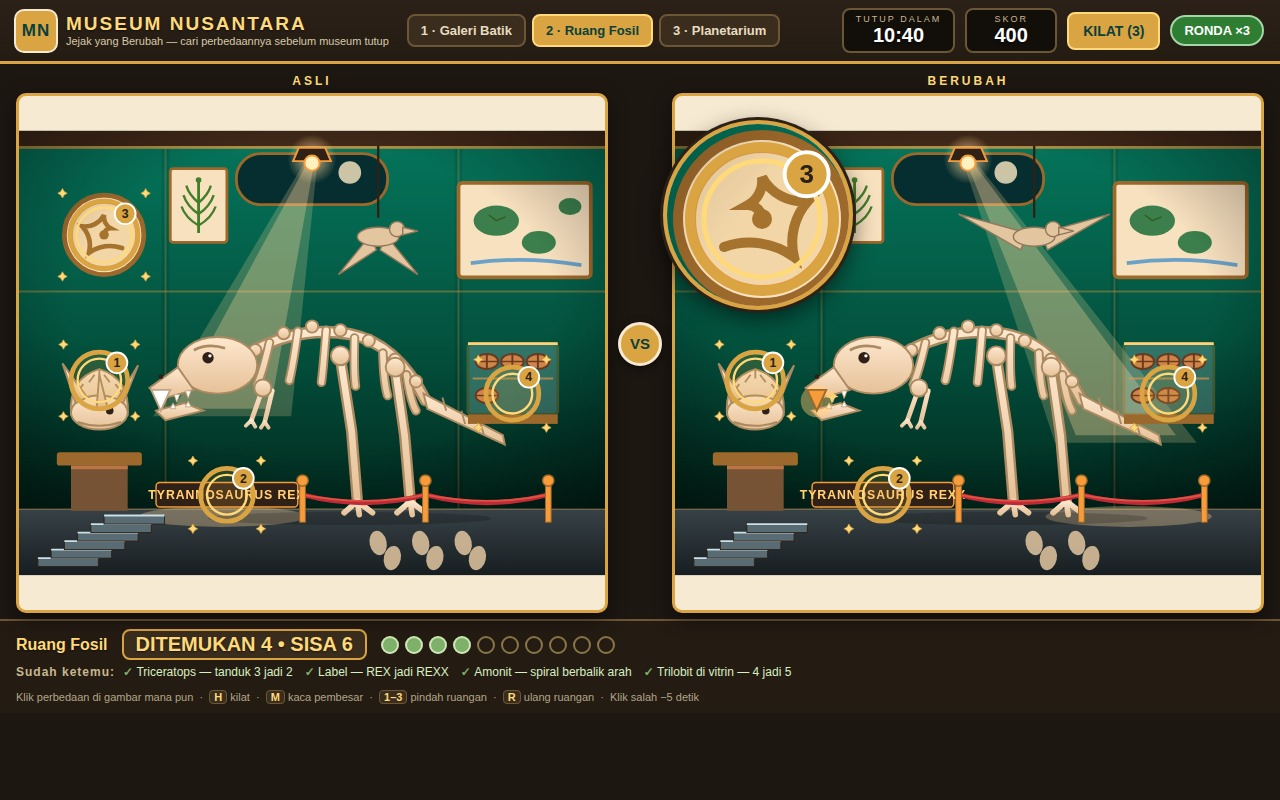
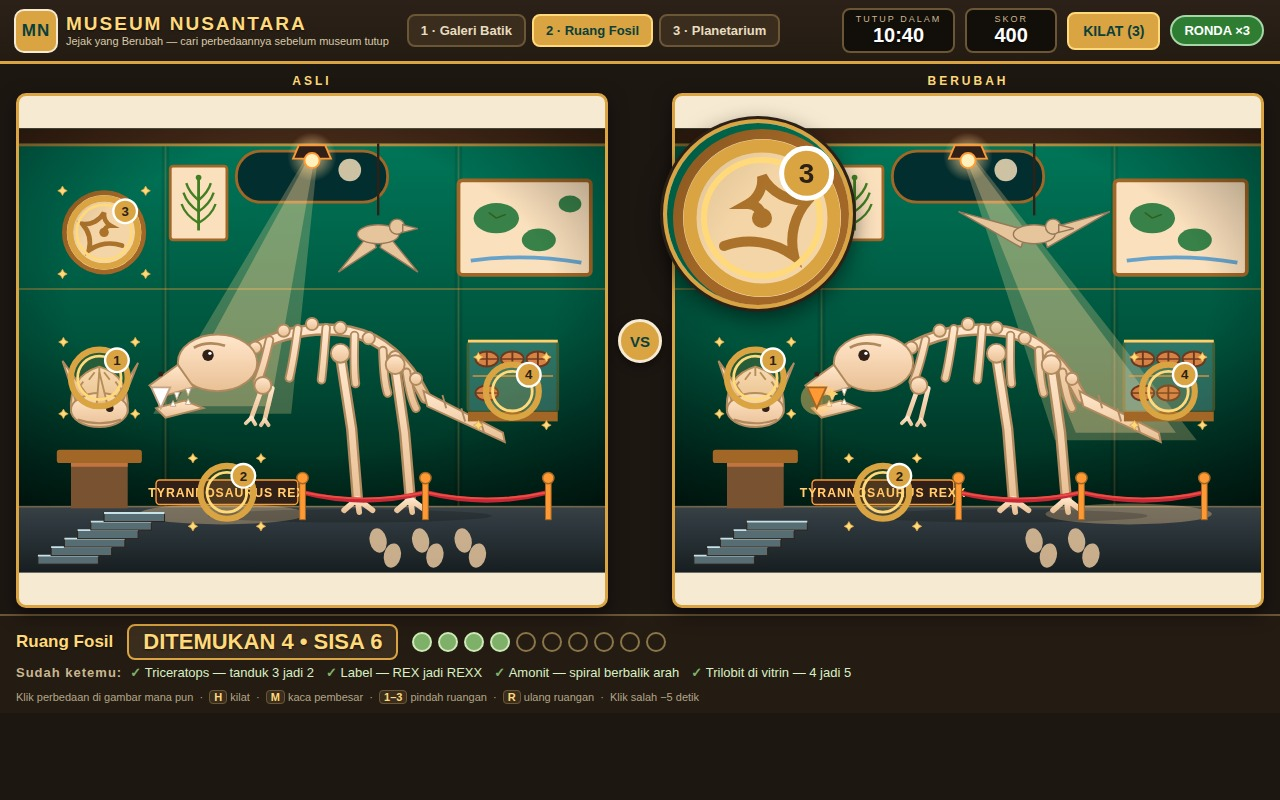
V1.4: Museum Nusantara — tuning estetika (grade Fokus Sorot)
- S1: grade pemenang uji buta 300px (C Fokus Sorot) — sorot radial hangat
  + vignette 0.60, dinding peach-emas, saturate 1.38 / kontras 1.22
- S2: Aula Fosil Teal didorong (sat 1.28, kontras 1.19, vig 0.55, sorot 0.24)
- S3: Planetarium didorong (sat 1.40, kontras 1.17, vig 0.50) + langit
  gelap di belakang kubah (sudut atas tidak lagi krem kosong)
- Global: cincin emas lebih tebal (5->6.5, badge r 11->12.5), counter
  + dots + daftar temuan lebih besar (terbaca di 300px)
- Screenshots di-shoot ulang state identik V1.3; S1/S2/S3 JPEG q92
  (PNG melebihi cap), S4 PNG 256.552 B
- Verifikasi: klik 30/30, pipeline main.ts 2x byte-identik,
  S1 byte-identik 2x shoot, 0 error game (hanya favicon 404)

diff --git a/game/scenes.js b/game/scenes.js
@@ -95,6 +95,14 @@
     return s;
   }
 
+  // ---------- V1.4: grade pemenang uji buta 300px ----------
+  // Tiga varian diuji buta (A Hangat Dalam, B Golden Hour, C Fokus Sorot):
+  // C menang — sorot radial hangat + vignette kuat, dinding peach-emas,
+  // cincin paling terbaca di 300px. Nilai C di-hardcode di bawah; hanya
+  // warna dinding/lantai/vignette — diff, posisi, dan logika tidak disentuh.
+  var GRADE1 = { name: 'Fokus Sorot', con: 1.22, hue: 8, sat: 1.38, vig: 0.60,
+    wall: ['#ffe9b0', '#eeb45c', '#c98a3e'], floor: ['#a87c40', '#5d3a1c'], glow: 0.28 };
+
   // ================= SCENE 1 — GALERI BATIK =================
   var scene1 = {
     id: 'batik',
@@ -113,21 +121,24 @@
     ],
     draw: function (variant) {
       var B = variant === 'berubah';
+      var G = GRADE1;
       var s = '';
       // defs: gradasi dinding + lantai + glow lampu
       s += '<defs>' +
         '<linearGradient id="wall1" x1="0" y1="0" x2="0" y2="1">' +
-        '<stop offset="0" stop-color="#fcefc0"/><stop offset="1" stop-color="#e8bd72"/></linearGradient>' +
+        '<stop offset="0" stop-color="' + G.wall[0] + '"/><stop offset="0.55" stop-color="' + G.wall[1] + '"/><stop offset="1" stop-color="' + G.wall[2] + '"/></linearGradient>' +
         '<linearGradient id="floor1" x1="0" y1="0" x2="0" y2="1">' +
-        '<stop offset="0" stop-color="#b08248"/><stop offset="1" stop-color="#754d22"/></linearGradient>' +
+        '<stop offset="0" stop-color="' + G.floor[0] + '"/><stop offset="1" stop-color="' + G.floor[1] + '"/></linearGradient>' +
         '<radialGradient id="lampGlow" cx="0.5" cy="0.5" r="0.5">' +
         '<stop offset="0" stop-color="#ffe9a8" stop-opacity="0.9"/><stop offset="1" stop-color="#ffe9a8" stop-opacity="0"/></radialGradient>' +
         '<radialGradient id="vig1" cx="0.5" cy="0.45" r="0.75">' +
-        '<stop offset="0.6" stop-color="#000" stop-opacity="0"/><stop offset="1" stop-color="#000" stop-opacity="0.45"/></radialGradient>' +
+        '<stop offset="0.6" stop-color="#000" stop-opacity="0"/><stop offset="1" stop-color="#000" stop-opacity="' + G.vig + '"/></radialGradient>' +
+        (G.glow ? '<radialGradient id="glow1" cx="0.5" cy="0.42" r="0.55">' +
+        '<stop offset="0" stop-color="#fff3c4" stop-opacity="' + G.glow + '"/><stop offset="1" stop-color="#fff3c4" stop-opacity="0"/></radialGradient>' : '') +
         '<filter id="grade1" x="-5%" y="-5%" width="110%" height="110%" color-interpolation-filters="sRGB">' +
-        '<feColorMatrix type="matrix" values="1.15 0 0 0 0 0 1.15 0 0 0 0 0 1.15 0 0 0 0 0 0 1 0"/>' +
-        '<feColorMatrix type="hueRotate" values="8"/>' +
-        '<feColorMatrix type="saturate" values="1.32"/>' +
+        '<feColorMatrix type="matrix" values="' + (G.sepia ? '0.848 0.192 0.047 0 0 0.087 0.922 0.042 0 0 0.068 0.134 0.783 0 0 0 0 0 1 0' : G.con + ' 0 0 0 0 0 ' + G.con + ' 0 0 0 0 0 ' + G.con + ' 0 0 0 0 0 1 0') + '"/>' +
+        '<feColorMatrix type="hueRotate" values="' + G.hue + '"/>' +
+        '<feColorMatrix type="saturate" values="' + G.sat + '"/>' +
         '</filter>' +
         '</defs>';
       // Grading resep "Museum Hangat" (skill color-grading-effects):
@@ -137,9 +148,12 @@
       // hueRotate 5.4->8, vignette 0.35->0.45, dinding/lantai lebih dalam)
       // karena integrasi glfx.js asli tidak jelas lebih baik (dinding
       // memutih, motif tidak lebih terbaca) — direvert ke literal.
+      // V1.4: grade pemenang uji buta 300px — C Fokus Sorot (glow 0.28 + vig 0.60).
       s += '<g filter="url(#grade1)">';
       // ---- BACKGROUND: dinding + jendela lengkung + langit-langit ----
       s += '<rect x="0" y="0" width="620" height="400" fill="url(#wall1)"/>';
+      // sorot radial hangat (varian C) — hanya dinding, objek tetap terang.
+      if (G.glow) s += '<rect x="0" y="0" width="620" height="400" fill="url(#glow1)"/>';
       // vignette resep Museum Hangat (0.6/0.35) — hanya dinding, objek tetap terang.
       s += '<rect x="0" y="0" width="620" height="400" fill="url(#vig1)"/>';
       s += '<rect x="0" y="0" width="620" height="14" fill="#8a6d2f"/>';
@@ -263,16 +277,18 @@
         '<radialGradient id="spot2" cx="0.5" cy="0.5" r="0.5">' +
         '<stop offset="0" stop-color="#ffe9a8" stop-opacity="0.75"/><stop offset="1" stop-color="#ffe9a8" stop-opacity="0"/></radialGradient>' +
         '<radialGradient id="vig2" cx="0.5" cy="0.45" r="0.75">' +
-        '<stop offset="0.55" stop-color="#000" stop-opacity="0"/><stop offset="1" stop-color="#000" stop-opacity="0.5"/></radialGradient>' +
+        '<stop offset="0.55" stop-color="#000" stop-opacity="0"/><stop offset="1" stop-color="#000" stop-opacity="0.55"/></radialGradient>' +
         '<filter id="grade2" x="-5%" y="-5%" width="110%" height="110%" color-interpolation-filters="sRGB">' +
-        '<feColorMatrix type="matrix" values="1.14 0 0 0 -0.11 0 1.14 0 0 -0.11 0 0 1.14 0 0 -0.11 0 0 0 1 0"/>' +
-        '<feColorMatrix type="hueRotate" values="-10.8"/>' +
-        '<feColorMatrix type="saturate" values="1.18"/>' +
+        '<feColorMatrix type="matrix" values="1.19 0 0 0 -0.11 0 1.19 0 0 -0.11 0 0 1.19 0 0 -0.11 0 0 0 1 0"/>' +
+        '<feColorMatrix type="hueRotate" values="-12"/>' +
+        '<feColorMatrix type="saturate" values="1.28"/>' +
         '</filter>' +
         '</defs>';
       // Grading resep "Aula Fosil Teal" (skill color-grading-effects):
       // brightnessContrast(-0.04, 0.14) + hueSaturation(-0.06, 0.18),
       // diterapkan literal sebagai filter SVG (sRGB) pada seluruh scene.
+      // V1.4: didorong searah pemenang uji buta (sat 1.18->1.28, kontras
+      // 1.14->1.19, hue -10.8->-12, vig 0.5->0.55, sorot 0.20->0.24).
       s += '<g filter="url(#grade2)">';
       // ---- BACKGROUND: dinding teal bergradasi + balok langit-langit + molding ----
       s += '<rect x="0" y="0" width="620" height="400" fill="url(#wall2)"/>';
@@ -317,7 +333,7 @@
         ? { x0: 402, y0: 330, x1: 552, y1: 330, px: 480, py: 408 }
         : { x0: 142, y0: 302, x1: 288, y1: 302, px: 215, py: 408 };
       s += '<path d="M304 30 L316 30 L' + cone.x1 + ' ' + cone.y0 + ' L' + cone.x0 + ' ' + cone.y0 +
-        ' Z" fill="#ffe9a8" opacity="0.20"/>';
+        ' Z" fill="#ffe9a8" opacity="0.24"/>';
       s += '<path d="M307 30 L313 30 L' + (cone.x1 - 22) + ' ' + (cone.y0 - 8) + ' L' + (cone.x0 + 22) + ' ' + (cone.y0 - 8) +
         ' Z" fill="#ffe9a8" opacity="0.28"/>';
       // rumah lampu + glow
@@ -466,6 +482,8 @@
         '<stop offset="0" stop-color="#2c3a7d"/><stop offset="0.5" stop-color="#1a2450"/><stop offset="1" stop-color="#0b1230"/></linearGradient>' +
         '<linearGradient id="floor3" x1="0" y1="0" x2="0" y2="1">' +
         '<stop offset="0" stop-color="#2c3550"/><stop offset="1" stop-color="#141a2e"/></linearGradient>' +
+        '<linearGradient id="sky3" x1="0" y1="0" x2="0" y2="1">' +
+        '<stop offset="0" stop-color="#0d1b3e"/><stop offset="1" stop-color="#060a18"/></linearGradient>' +
         '<radialGradient id="spot3" cx="0.5" cy="0.5" r="0.5">' +
         '<stop offset="0" stop-color="#9fb4ff" stop-opacity="0.5"/><stop offset="1" stop-color="#9fb4ff" stop-opacity="0"/></radialGradient>' +
         '<radialGradient id="moonGlow" cx="0.5" cy="0.5" r="0.5">' +
@@ -477,18 +495,22 @@
         '<radialGradient id="nebC" cx="0.5" cy="0.5" r="0.5">' +
         '<stop offset="0" stop-color="#4a6fd8" stop-opacity="0.5"/><stop offset="1" stop-color="#4a6fd8" stop-opacity="0"/></radialGradient>' +
         '<radialGradient id="vig3" cx="0.5" cy="0.45" r="0.75">' +
-        '<stop offset="0.55" stop-color="#000" stop-opacity="0"/><stop offset="1" stop-color="#000" stop-opacity="0.45"/></radialGradient>' +
+        '<stop offset="0.55" stop-color="#000" stop-opacity="0"/><stop offset="1" stop-color="#000" stop-opacity="0.50"/></radialGradient>' +
         '<filter id="grade3" x="-5%" y="-5%" width="110%" height="110%" color-interpolation-filters="sRGB">' +
-        '<feColorMatrix type="matrix" values="1.12 0 0 0 -0.14 0 1.12 0 0 -0.14 0 0 1.12 0 0 -0.14 0 0 0 1 0"/>' +
-        '<feColorMatrix type="hueRotate" values="-18"/>' +
-        '<feColorMatrix type="saturate" values="1.3"/>' +
+        '<feColorMatrix type="matrix" values="1.17 0 0 0 -0.14 0 1.17 0 0 -0.14 0 0 1.17 0 0 -0.14 0 0 0 1 0"/>' +
+        '<feColorMatrix type="hueRotate" values="-20"/>' +
+        '<feColorMatrix type="saturate" values="1.40"/>' +
         '</filter>' +
         '</defs>';
       // Grading resep "Planetarium" (skill color-grading-effects):
       // brightnessContrast(-0.08, 0.12) + hueSaturation(-0.10, 0.30),
       // diterapkan literal sebagai filter SVG (sRGB) pada seluruh scene.
+      // V1.4: didorong searah pemenang uji buta (sat 1.3->1.40, kontras
+      // 1.12->1.17, hue -18->-20, vig 0.45->0.50) + langit gelap di belakang
+      // kubah supaya sudut atas tidak krem kosong.
       s += '<g filter="url(#grade3)">';
-      // ---- BACKGROUND: kubah nebula + Bima Sakti + bintang warna-warni + rusuk kubah ----
+      // ---- BACKGROUND: langit gelap + kubah nebula + Bima Sakti + bintang warna-warni + rusuk kubah ----
+      s += '<rect x="0" y="0" width="620" height="470" fill="url(#sky3)"/>';
       s += '<path d="M0 400 L0 150 A310 190 0 0 1 620 150 L620 400 Z" fill="url(#wall3)"/>';
       s += '<ellipse cx="120" cy="130" rx="130" ry="70" fill="url(#nebA)"/>' +
         '<ellipse cx="490" cy="90" rx="140" ry="75" fill="url(#nebB)"/>' +

diff --git a/game/styles.css b/game/styles.css
@@ -100,18 +100,18 @@ body {
   padding: 8px 16px 10px; background: #241b13; border-top: 2px solid #6b5636;
 }
 .progress { display: flex; align-items: center; gap: 14px; }
-#scene-name { font-size: 16px; font-weight: 900; color: var(--gold-soft); }
-.counter { font-size: 20px; font-weight: 900; color: var(--gold-soft); font-variant-numeric: tabular-nums; background: #3a2d1e; border: 2px solid var(--gold); border-radius: 8px; padding: 2px 12px; }
+#scene-name { font-size: 17px; font-weight: 900; color: var(--gold-soft); }
+.counter { font-size: 22px; font-weight: 900; color: var(--gold-soft); font-variant-numeric: tabular-nums; background: #3a2d1e; border: 2px solid var(--gold); border-radius: 8px; padding: 3px 14px; }
 .dots { display: flex; gap: 6px; }
 .dot {
-  width: 18px; height: 18px; border-radius: 50%;
+  width: 20px; height: 20px; border-radius: 50%;
   border: 2px solid #8a7648; background: transparent;
 }
 .dot.found { background: #7fb069; border-color: #cfe8b8; }
 .found-list { display: flex; gap: 8px; align-items: baseline; margin-top: 5px; min-height: 22px; }
-.found-title { font-size: 12px; font-weight: 900; color: #c9b78f; letter-spacing: 1px; white-space: nowrap; }
+.found-title { font-size: 13px; font-weight: 900; color: #c9b78f; letter-spacing: 1px; white-space: nowrap; }
 #found-names { list-style: none; display: flex; flex-wrap: wrap; gap: 4px 12px; }
-#found-names li { font-size: 12px; color: #d9f0c2; }
+#found-names li { font-size: 13px; color: #d9f0c2; }
 #found-names li::before { content: "\2713  "; color: #7fb069; font-weight: 900; }
 .keys { font-size: 11px; color: #b3a586; margin-top: 4px; }
 .keys b { color: var(--gold-soft); background: #3a2d1e; border: 1px solid #6b5636; border-radius: 4px; padding: 0 4px; }

diff --git a/game/renderer.js b/game/renderer.js
@@ -15,11 +15,11 @@
         ' Z" fill="#ffd97a" stroke="#d9a441" stroke-width="0.8"/>';
     });
     return '<g class="found-ring">' +
-      '<circle class="ring-pulse" cx="' + x + '" cy="' + y + '" r="' + r + '" fill="rgba(217,164,65,0.18)" stroke="#d9a441" stroke-width="5"/>' +
-      '<circle cx="' + x + '" cy="' + y + '" r="' + (r - 7) + '" fill="none" stroke="#ffd97a" stroke-width="2.5"/>' +
+      '<circle class="ring-pulse" cx="' + x + '" cy="' + y + '" r="' + r + '" fill="rgba(217,164,65,0.18)" stroke="#d9a441" stroke-width="6.5"/>' +
+      '<circle cx="' + x + '" cy="' + y + '" r="' + (r - 7) + '" fill="none" stroke="#ffd97a" stroke-width="3"/>' +
       sparks +
-      '<circle cx="' + (x + r * 0.62) + '" cy="' + (y - r * 0.62) + '" r="11" fill="#d9a441" stroke="#fff" stroke-width="2"/>' +
-      '<text x="' + (x + r * 0.62) + '" y="' + (y - r * 0.62 + 4.5) + '" text-anchor="middle" font-size="13" font-weight="900" fill="#2b2118">' + (idx + 1) + '</text>' +
+      '<circle cx="' + (x + r * 0.62) + '" cy="' + (y - r * 0.62) + '" r="12.5" fill="#d9a441" stroke="#fff" stroke-width="2.5"/>' +
+      '<text x="' + (x + r * 0.62) + '" y="' + (y - r * 0.62 + 5) + '" text-anchor="middle" font-size="14" font-weight="900" fill="#2b2118">' + (idx + 1) + '</text>' +
       '</g>';
   }
   function floatNumber(diff, idx) {
